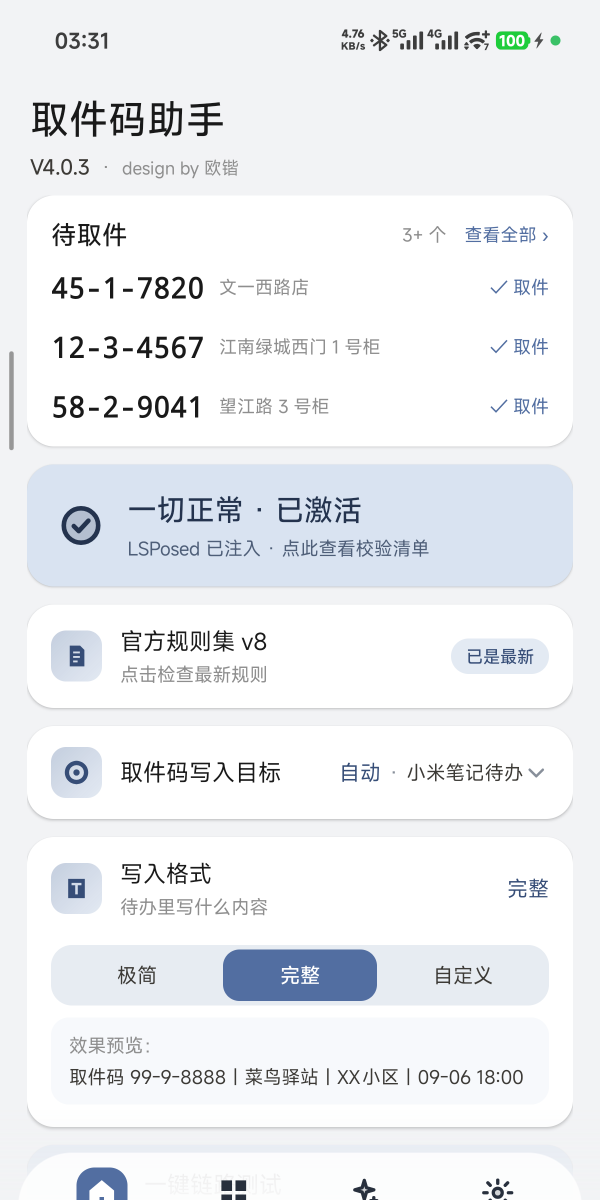
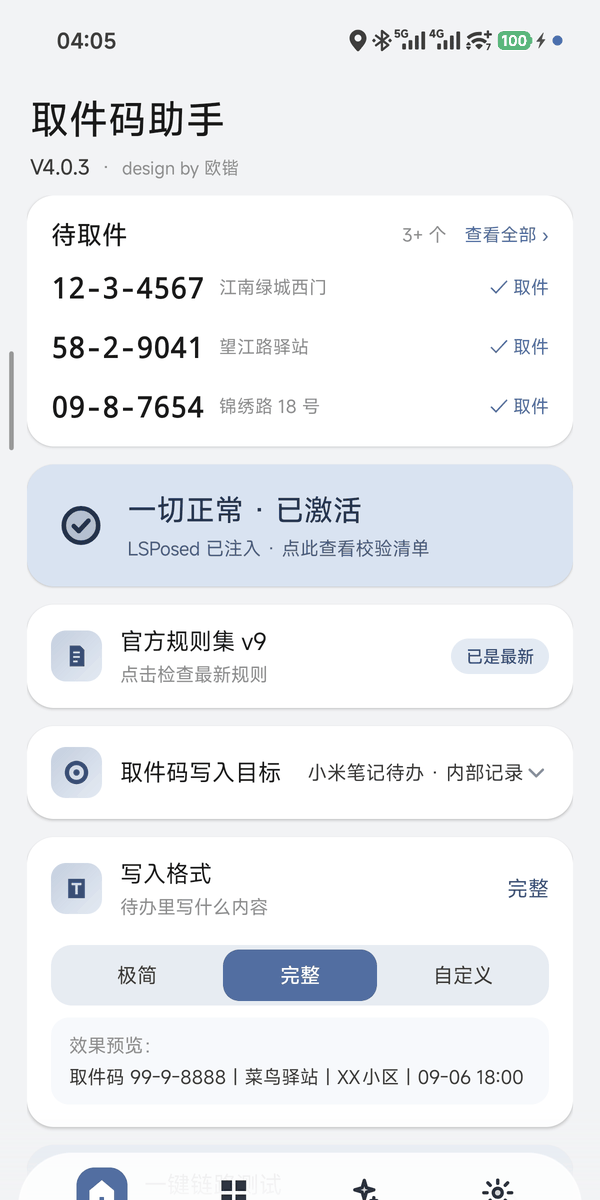
docs(4.0.3): README 补简洁模式与新截图；补酷安两篇文案
- README：修正过时事实（规则 v9、511 项断言、设置页结构、酷安主页），
  补简洁模式说明，开头加一句痛点，通知白名单补拼多多/顺丰/菜鸟裹裹
- 截图整套重截：新增 simple.png（简洁模式），widget.png 改为真实渲染裁剪图
- 新增 docs/COOLAPK-4.0.3.md：老帖更新稿 + 新版本引流稿 + 配图顺序

diff --git a/docs/COOLAPK-4.0.3.md b/docs/COOLAPK-4.0.3.md
@@ -1,0 +1,140 @@
+# 酷安文案（V4.0.3）
+
+> 两篇：① 老帖完整更新（替换原帖正文）；② 新版本引流帖（新发一条）。
+> 酷安正文不支持 Markdown 标题语法，下面的 `###` 只是分段标记，粘贴时删掉即可。
+> 配图直接用 `docs/screenshots/` 里的五张，顺序见每篇末尾的「配图」。
+
+---
+
+## ① 老帖更新（替换原帖正文）
+
+### 标题
+
+取件码助手 4.0.3｜取件码回到本地，待办只是同步出去的一份
+
+### 正文
+
+这个模块做的事很简单：短信或 App 通知里出现取件码，它替你认出来、记下来，
+要用的时候一眼就能看到。
+
+4.0 是一次彻底重写，不是加功能。之前把小米笔记的待办库当成"数据库"用——
+听起来聪明，实际上很别扭：换个 ROM 就塌，取件码到底存在哪也说不清。
+现在反过来：本地库是事实源，写进系统待办只是"同步出去的一份副本"。
+
+这次 4.0.3 又收了二十多处细节，挑重要的说：
+
+【写入目标只有两处，默认都开】
+
+· 系统待办：写进小米笔记的待办列表（ColorOS 是日历待办或便签）
+· 软件内部记录：App 顶部显示「待取件」，桌面小组件读的也是它
+
+桌面小组件不是一个独立目标——它没有自己的库，只是内部记录的展示。
+所以关掉内部记录时，App 内的记录清空、首页整块消失、组件也从桌面移除；
+重新打开就都回来了。
+
+两处至少留一个。只想在 App 里看码、不想让笔记里多一堆待办，就把系统待办关掉。
+
+【简洁模式】
+
+只有一页：待取件、规则、写入目标、写入格式、链路测试，底部一个「更多选项」。
+不想在四个 Tab 里找东西的人用这个就够，数据和进阶模式完全共享。
+
+【识别规则 v9】
+
+新增一类「纯状态通知」的拦截。电商平台会推「商品待取件提醒」「订单发货通知」
+这类消息——含"取件""快递"字样，但根本不给码，只是告诉你"有件了"。
+以前它们会被当成"疑似漏抓"记进错题本，现在整条跳过，错题本干净了。
+
+【其他】
+
+· 桌面小组件：「显示取件码」改成上级开关，关掉只显示件数；「显示取件地点」在它下面
+· 链路测试现在真的写一条：待办里有、App 里也有、组件跟着刷新，不再是"只写一半"
+· 错题本清空后条数立刻刷新，不用退出去再进来
+· 设置页去掉了一层「反馈与支持」弹窗，错题本 / QQ 群 / 酷安主页直接列出来
+· 关于里的「复制 JSON 诊断报告」和 GitHub Issue 入口删了，排查向导里的导出还在
+
+【安装要求，先看这段】
+
+1. LSPosed 启用模块；
+2. 作用域必勾「Android 系统」（列表最底部、没有推荐角标的那一项），
+   再加电话、短信、com.android.providers.telephony，小米设备另勾「小米笔记」；
+3. 需要 root（Magisk / KernelSU），写入待办要读写系统库；
+4. 勾完作用域必须重启手机。
+
+装完打开 App，点开首页状态卡 → 点「体检」，全绿就是好了。
+
+【下载】
+
+GitHub Releases：https://github.com/O-kai/Xiaomi-HyperOs-pickup-code-grabber/releases
+
+【反馈】
+
+QQ 群 901543676（备注「取件码助手」）
+酷安主页：https://coolapk.com/u/1222904
+
+用 ColorOS 的朋友注意：写入侧从 2.7.0 起就支持，4.0.3 又补了三处 ColorOS 专属适配，
+但这三处我手上没有实机，没法验证。体检里有一项「ColorOS 唤醒」会告诉你适配目标还在不在，
+有问题带日志找我，我按日志调。
+
+### 配图
+
+1. home.png（首页）
+2. records.png（取件记录）
+3. simple.png（简洁模式）
+4. widget.png（桌面小组件）
+
+---
+
+## ② 新版本引流帖（新发一条）
+
+### 标题
+
+取件码助手 4.0.3｜取件短信一到，码就躺在你手边
+
+### 正文
+
+取件码这东西很烦：散在驿站短信、快递柜通知、电商 App 的推送里，格式还各不相同。
+取件的时候翻半天聊天记录，翻到的时候可能已经过期了。
+
+这个 LSPosed 模块干三件事：
+
+一、认出来
+短信和 App 通知里的取件码都能提取。菜鸟、菜鸟裹裹、京东、淘宝、拼多多、顺丰、
+丰巢、抖音默认支持，别的 App 可以自己加白名单。
+
+二、记下来
+落进本地库，带状态、地点、时间。能搜索、能筛选、能导出，超过一天没取的会标
+「滞留 N 天」——只是提醒，绝不自动删除。
+
+三、放到眼前
+首页最上面就是待取件，点码复制、点 ✓ 标记已取；桌面小组件常驻；
+需要的话还能同步进系统待办（小米笔记 / ColorOS 日历·便签）。
+
+4.0 是彻底重写：本地库成了唯一事实源，写待办降级成"同步出去的一份副本"。
+好处是换个 ROM 不会塌，取件码存在哪也说得清。
+
+4.0.3 这版还加了：
+· 简洁模式——只有一页，不用在四个 Tab 里找
+· 「显示取件码」改成上级开关，关掉只显示件数，同事瞥一眼也看不到码
+· 识别规则 v9——电商那种"提醒你有件了但不给码"的推送，不会再被误判
+
+要求：LSPosed + root。作用域必须勾「Android 系统」（列表最底下那项），勾完重启。
+
+下载：https://github.com/O-kai/Xiaomi-HyperOs-pickup-code-grabber/releases
+反馈：QQ 群 901543676（备注「取件码助手」）
+
+### 配图
+
+1. home.png（首页，放第一张）
+2. records.png
+3. widget.png
+
+---
+
+## 发布前检查
+
+- [ ] 老帖：编辑后酷安会重新审核，审核期间帖子可能短暂不可见
+- [ ] 新帖：标题别带「4.0.3」以外的版本号，避免以后每版都改标题
+- [ ] 两帖都挂 GitHub Releases 链接，不要挂 APK 直链（换版本会失效）
+- [ ] 配图用 `docs/screenshots/` 里的原图，不要用手机截图（会带状态栏隐私）
+- [ ] 首图选 `home.png`，构图最完整

diff --git a/README.md b/README.md
@@ -12,20 +12,25 @@
 一个跑在 **LSPosed** 上的取件码聚合模块：从短信和 App 通知里认出取件码，
 存进本地库，顺手同步到系统待办，并给桌面一个小部件。
 
+取件码原本散在驿站短信、快递柜通知、电商 App 的推送里，格式还各不相同；
+取件时翻半天，过期了才发现。这个模块把它们收拢到一处——**收到就记下，要用时一眼看到**。
+
 </div>
 
 <p align="center">
   <img src="docs/screenshots/home.png" width="23%" />
   <img src="docs/screenshots/records.png" width="23%" />
+  <img src="docs/screenshots/simple.png" width="23%" />
   <img src="docs/screenshots/settings.png" width="23%" />
 </p>
 <p align="center">
   <img src="docs/screenshots/widget.png" width="52%" />
 </p>
+<p align="center"><sub>首页 · 取件记录 · 简洁模式 · 设置 · 桌面小组件</sub></p>
 
 <div align="center">
 
-📱 [酷安发布帖](https://www.coolapk.com/feed/73558591) · 🧩 [LSPosed 模块仓库](https://github.com/Xposed-Modules-Repo/io.github.okaidev.pickupcode) · 💬 开发者 QQ 群 **901543676**（备注「取件码助手」）
+📱 [酷安（开发者主页）](https://coolapk.com/u/1222904) · 🧩 [LSPosed 模块仓库](https://github.com/Xposed-Modules-Repo/io.github.okaidev.pickupcode) · 💬 开发者 QQ 群 **901543676**（备注「取件码助手」）
 
 </div>
 
@@ -83,8 +88,12 @@
 外观设置里「显示取件码」是上级开关：关掉后整行收起，只显示「N 个待取 · M 个已取」；
 「显示取件地点」在它下面，码不显示时这一项自动失效（保留你的选择，重新打开码就恢复）。点标题进 App。
 
-**设置** —— 界面模式（简洁 / 进阶）、桌面小组件、外观（四套配色，图标跟着换）、
-模糊效果、取件提醒、检查更新；关于里有版本、项目主页、反馈与支持、清理与卸载。
+**简洁模式** —— 首页只有待取件、规则集、写入目标与格式、链路测试，外加一个「更多选项」入口。
+适合只想「看码、取件」的人：不用在四个 Tab 之间找东西。
+想要更多规则、来源和外观设置，点「更多选项 → 进阶模式」随时切回来，数据完全共享。
+
+**设置（进阶模式）** —— 界面模式、桌面小组件、外观（四套配色，图标跟着换）、
+模糊效果、取件提醒、检查更新；关于里有版本、项目主页、错题本、QQ 群、酷安主页、清理与卸载。
 
 **写入目标有两处，默认都开。**
 
@@ -132,7 +141,8 @@
 点状态卡 → 点击体检。多数是作用域漏了「Android 系统」，或者装完没重启。
 
 **通知抓不到**
-「通知提取」页确认开关开着、对应 App 在白名单里。抖音、菜鸟、丰巢、京东、淘宝默认都在。
+「通知提取」页确认开关开着、对应 App 在白名单里。菜鸟、菜鸟裹裹、京东、淘宝、拼多多、
+顺丰、丰巢、抖音默认都在；不在列表里的 App 可以从已安装应用里自己加。
 
 **提示写入失败**
 写入系统待办需要 root。看体检里「root 授权」「待办库访问」两项的说明；
@@ -171,13 +181,16 @@
 - **抓取依赖 LSPosed**，模块更新后必须重启手机才生效（App 会提示一次）。
 - **HyperOS 会忽略 `requestPinAppWidget`**，「重新添加小组件」不一定能自动弹出添加框，
   需要手动长按桌面添加。
-- **跨设备互联、ColorOS 16 的 4.0 新适配路径**：未实机验证。
+- **软件内部记录只在本机。** 要跨设备看，得开着「系统待办」——它跟着
+  小米账号 / OPPO 账号的云同步走，同账号的平板、另一台手机也能收到。
+- **ColorOS 16 的 4.0 新适配路径**（`ColorOsProviderWake`、配置文件的 SELinux 标签、
+  日历待办与便签双库同时写）维护者没有实机验证，用 ColorOS 的话欢迎带日志反馈。
 
 ---
 
 ## 版本与更新
 
-当前 **V4.0.3**（`versionCode 403`），提取规则集 **v8**。
+当前 **V4.0.3**（`versionCode 403`），提取规则集 **v9**。
 
 ```
 V<大版本>.<小版本>.<修复版本>
@@ -219,7 +232,7 @@ cd Xiaomi-HyperOs-pickup-code-grabber
 ```
 
 需要 JDK 17 + Android SDK（compileSdk 34）。正式包由维护者用生产 keystore 签名后发布，
-CI 只产出 debug 包。改完规则可以跑 `bash tools/run_all_tests.sh`（14 套、493 项断言）。
+CI 只产出 debug 包。改完规则可以跑 `bash tools/run_all_tests.sh`（14 套、511 项断言）。
 
 ---
 

diff --git a/docs/screenshots/README.md b/docs/screenshots/README.md
@@ -4,10 +4,11 @@
 
 | 文件 | 内容 | 尺寸 |
 |---|---|---|
-| `home.png` | 首页：待取件 + 状态卡 + 规则集 + 写入目标与格式 | 600 × 1200 |
+| `home.png` | 首页（进阶）：待取件 + 状态卡 + 规则集 + 写入目标与格式 | 600 × 1200 |
 | `records.png` | 取件记录：三种筛选、搜索、滞留标签 | 600 × 1200 |
-| `settings.png` | 设置页：基础设置与关于两组 | 600 × 1200 |
-| `widget.png` | 桌面小组件：每行固定高度、已取划掉 | 536 × 377 |
+| `simple.png` | 简洁模式：没有底栏，一页到底 | 600 × 1200 |
+| `settings.png` | 设置页：打赏、基础设置与关于 | 600 × 1200 |
+| `widget.png` | 桌面小组件：真实渲染，每行固定高度、已取划掉 | 600 × 456 |
 
 ## 替换规则
 
